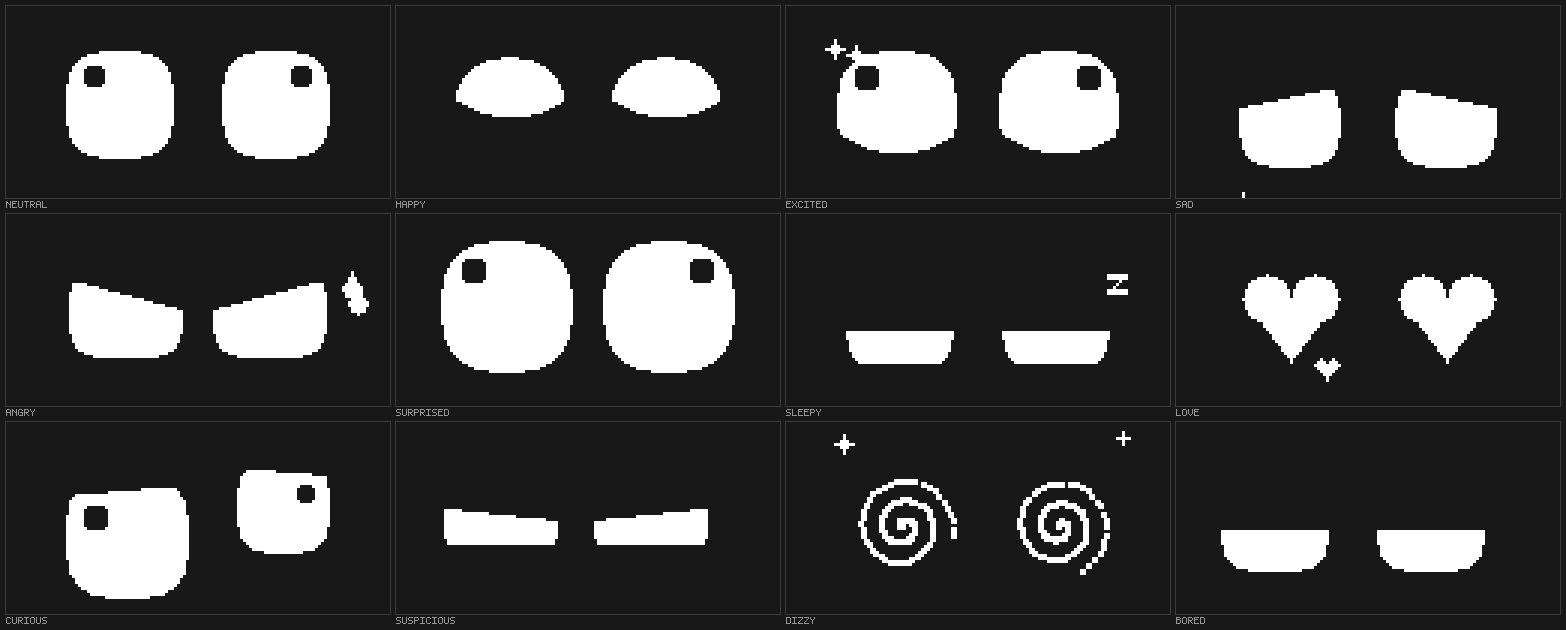
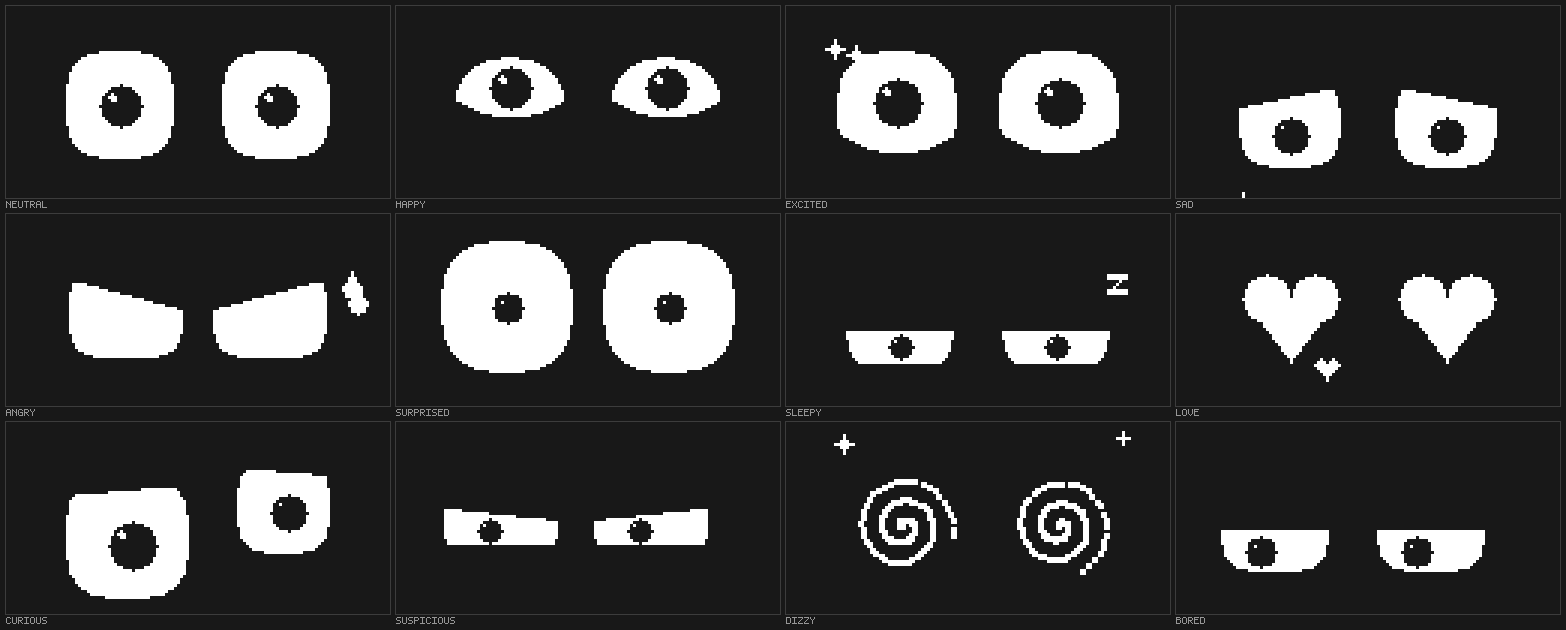
Give the eyes pupils that follow the gaze
Every expression except angry now has a pupil with a catchlight. It is
sized to whatever band of the eye the lids and the happy arc leave
visible - so it peeks out as a sliver under sleepy or suspicious lids
instead of disappearing - and it slides around inside that band with
the gaze, which reads as googly rather than merely shifty. Surprised
gets deliberately small pupils in oversized eyes; angry keeps a solid
glare. Replaces the old black-notch glint. Previews, GIF and the tuning
doc regenerated to match.

Claude-Session: https://claude.ai/code/session_01Uzmr89698vnAwyPFW652Cr

diff --git a/src/Face.cpp b/src/Face.cpp
@@ -26,7 +26,8 @@ void defaults(Pose& p) {
   p.w = 36.0f;  p.h = 36.0f;  p.radius = 11.0f;  p.spacing = 52.0f;
   p.lidTop = 0.0f;  p.lidBot = 0.0f;  p.slant = 0.0f;  p.arc = 0.0f;
   p.offY = 0.0f;  p.tilt = 0.0f;  p.scaleL = 1.0f;  p.scaleR = 1.0f;
-  p.gazeX = 0.0f;  p.gazeY = 0.0f;  p.sparkle = 0.0f;  p.bob = 1.2f;
+  p.gazeX = 0.0f;  p.gazeY = 0.0f;  p.pupil = 1.0f;  p.sparkle = 1.0f;
+  p.bob = 1.2f;
   p.style = STYLE_EYES;
 }
 
@@ -51,7 +52,6 @@ void poseFor(Emotion e, Pose& p) {
   defaults(p);
   switch (e) {
     case EMOTION_NEUTRAL:
-      p.sparkle = 1.0f;
       break;
 
     case EMOTION_HAPPY:              // eyes squeeze up into two happy domes
@@ -61,7 +61,7 @@ void poseFor(Emotion e, Pose& p) {
 
     case EMOTION_EXCITED:            // big, wide, bouncing
       p.w = 40.0f; p.h = 40.0f; p.radius = 14.0f; p.spacing = 54.0f;
-      p.arc = 0.16f; p.sparkle = 1.0f; p.bob = 2.8f;
+      p.arc = 0.16f; p.bob = 2.8f;
       break;
 
     case EMOTION_SAD:                // inner brows up, looking at the floor
@@ -73,11 +73,12 @@ void poseFor(Emotion e, Pose& p) {
     case EMOTION_ANGRY:              // brows jammed down towards the nose
       p.w = 38.0f; p.h = 30.0f; p.radius = 8.0f; p.spacing = 48.0f;
       p.slant = 10.0f; p.lidTop = 0.30f; p.bob = 1.0f;
+      p.pupil = 0.0f;                // solid glare reads angrier
       break;
 
     case EMOTION_SURPRISED:          // wide open
       p.w = 44.0f; p.h = 44.0f; p.radius = 16.0f; p.spacing = 54.0f;
-      p.offY = -1.0f; p.sparkle = 1.0f; p.bob = 0.5f;
+      p.offY = -1.0f; p.pupil = 0.55f; p.bob = 0.5f;  // tiny pupils = shock
       break;
 
     case EMOTION_SLEEPY:             // heavy lids
@@ -91,7 +92,7 @@ void poseFor(Emotion e, Pose& p) {
 
     case EMOTION_CURIOUS:            // head tilt + one eye wider
       p.scaleL = 1.15f; p.scaleR = 0.85f; p.tilt = 5.0f;
-      p.lidTop = 0.12f; p.slant = -3.0f; p.gazeX = 0.25f; p.sparkle = 1.0f;
+      p.lidTop = 0.12f; p.slant = -3.0f; p.gazeX = 0.25f;
       break;
 
     case EMOTION_SUSPICIOUS:         // narrowed, side-eye
@@ -346,6 +347,7 @@ void Face::update(float dt) {
   cur_.scaleR  = approach(cur_.scaleR,  tgt_.scaleR,  0.11f, dt);
   cur_.gazeX   = approach(cur_.gazeX,   tgt_.gazeX,   0.20f, dt);
   cur_.gazeY   = approach(cur_.gazeY,   tgt_.gazeY,   0.20f, dt);
+  cur_.pupil   = approach(cur_.pupil,   tgt_.pupil,   0.10f, dt);
   cur_.sparkle = approach(cur_.sparkle, tgt_.sparkle, 0.10f, dt);
   cur_.bob     = approach(cur_.bob,     tgt_.bob,     0.30f, dt);
 
@@ -427,13 +429,35 @@ void Face::drawEye(Canvas& g, float cxf, float cyf, float scale, float closed,
     }
   }
 
-  // Highlight glint, skipped when the eye is squinting or curved away.
-  if (cur_.sparkle > 0.35f && cur_.arc < 0.25f && h >= 14 && w >= 14) {
-    int sw = w / 5; if (sw < 3) sw = 3;
-    int sh = h / 5; if (sh < 3) sh = 3;
-    const int sx = innerIsRight ? (x0 + w / 6) : (x0 + w - w / 6 - sw);
-    const int sy = y0 + (int)lroundf(lidTopPx) + h / 7;
-    if (sy + sh < y0 + h - 2) g.fillRoundRect(sx, sy, sw, sh, 1, DB_BLACK);
+  // Pupil. It lives in whatever band of the eye is still visible after the
+  // lids and the happy arc have had their way - so under heavy lids it peeks
+  // out as a sliver instead of vanishing - and it slides around inside that
+  // band with the gaze, which is what makes the eyes googly rather than
+  // just shifty. Black on black outside the eye costs nothing, so no clipping.
+  if (cur_.pupil > 0.05f) {
+    const float visTop = (float)y0 + lidTopPx;
+    const float visBot = (float)(y0 + h) - lidBotPx - cur_.arc * (float)h;
+    const float band = visBot - visTop;
+    if (band >= 3.0f) {
+      const float minDim = (float)(w < h ? w : h);
+      int r = (int)lroundf(minDim * 0.20f * cur_.pupil);
+      const int maxR = (int)((band - 1.0f) * 0.5f);
+      if (r > maxR) r = maxR;
+      if (r >= 1) {
+        const float slideX = ((float)w * 0.5f - (float)r - 2.0f) * 0.85f;
+        const float slideY = (band * 0.5f - (float)r - 1.0f) * 0.85f;
+        const int px = cx + (int)lroundf(clampf(gazeX_, -1.0f, 1.0f) * slideX);
+        const int py = (int)lroundf((visTop + visBot) * 0.5f +
+                                    clampf(gazeY_, -1.0f, 1.0f) * slideY);
+        g.fillCircle(px, py, r, DB_BLACK);
+        // A catchlight in the upper-left of the pupil.
+        if (cur_.sparkle > 0.35f && r >= 4) {
+          const int hr = (r >= 7) ? 2 : 1;
+          g.fillCircle(px - r / 2, py - r / 2, hr - 1, DB_WHITE);
+          if (hr == 2) g.fillRect(px - r / 2, py - r / 2, 2, 2, DB_WHITE);
+        }
+      }
+    }
   }
 }
 

diff --git a/src/Face.h b/src/Face.h
@@ -50,7 +50,8 @@ struct Pose {
   float scaleR;
   float gazeX;       // resting gaze, -1..1
   float gazeY;
-  float sparkle;     // 0..1 highlight glint
+  float pupil;       // 0..1 pupil size (0 = none; the angry face goes without)
+  float sparkle;     // 0..1 highlight glint inside the pupil
   float bob;         // idle breathing amplitude in px
   EyeStyle style;
 };

diff --git a/docs/TUNING.md b/docs/TUNING.md
@@ -19,7 +19,8 @@ emotion, each filling in a `Pose`:
 | `tilt` | pixels; left eye down, right eye up. Reads as a head tilt |
 | `scaleL`, `scaleR` | per-eye size multiplier. Asymmetry reads as curiosity |
 | `gazeX`, `gazeY` | resting gaze, `-1..1` |
-| `sparkle` | highlight glint in each eye |
+| `pupil` | `0..1` pupil size. It sits in whatever band of the eye the lids leave visible and slides with the gaze; `0` for a solid glare (angry) |
+| `sparkle` | catchlight in the upper-left of the pupil |
 | `bob` | idle breathing amplitude in pixels |
 | `style` | `STYLE_EYES`, `STYLE_HEART` or `STYLE_SPIRAL` |
 
